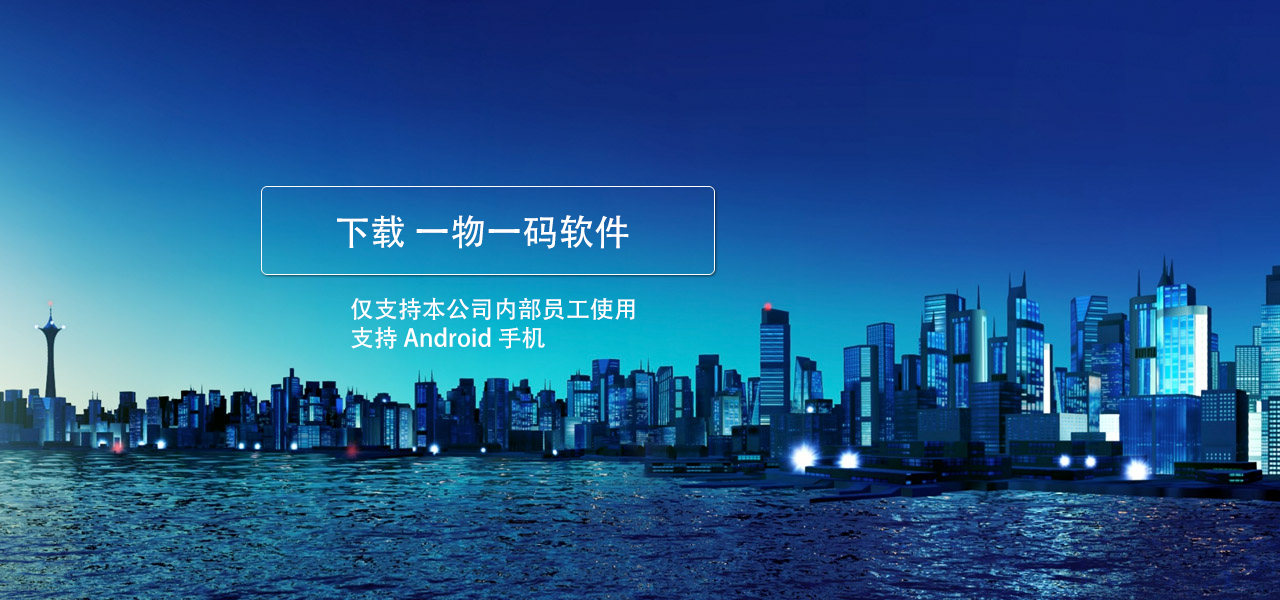
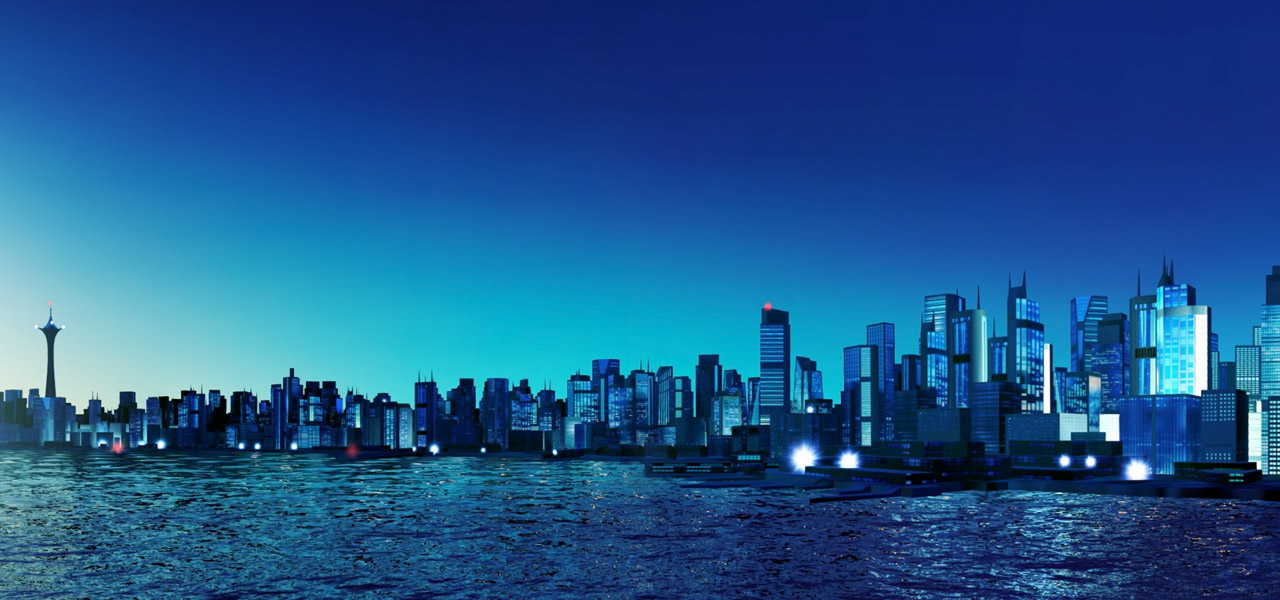
update

Changed region(s): [[0.2188, 0.45, 0.5625, 0.6], [0.25, 0.36, 0.5, 0.42]]

diff --git a/index.html b/index.html
@@ -100,8 +100,9 @@
             <img src="images/slide-5.png" class="img-responsive" alt="Manufactory">
           </div>
           <div class="slider-info w3ls-1">
-            <h3></h3>
-            <p></p>
+            <h3>为品牌重新定义一物一码</h3>
+            <p>仅支持本公司内部员工使用</p>
+            <p>点击下载一物一码App</p>
 
           </div>
         </a>
